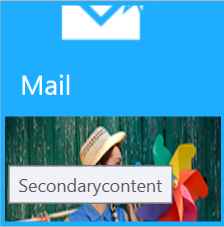
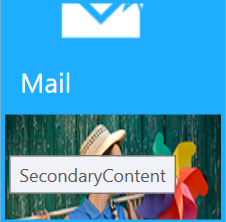
Modified Images on UG Hub Tile

Changed region(s): [[0.0, 0.0, 1.0, 1.0], [0.0938, 0.3243, 0.3125, 0.4324]]

diff --git a/wpf/Hub-Tile/Hub-Tile-Control.md b/wpf/Hub-Tile/Hub-Tile-Control.md
@@ -423,7 +423,7 @@ Several tiles can be grouped using the [GroupName](https://help.syncfusion.com/c
 {% endhighlight %}
 {% endtabs %}
 
-![wpf hubtile grouping](Getting-Started_images/wpf-hubtile-grouping.jpg)
+![wpf hubtile grouping](Getting-Started_images/wpf-hubtile-groupingtiles.jpg)
 
 ### Grouping via DataBinding
 
@@ -774,7 +774,7 @@ A single tile or a group of tiles can be unfreezed by using [UnFreeze](https://h
 {% endtabs %}
 
 ![wpf hubtile unfreeze a single tile](Getting-Started_images/wpf-hubtile-slide-transition.png)
-![wpf hubtile unfreeze a group of tiles](Getting-Started_images/wpf-hubtile-grouping.jpg)
+![wpf hubtile unfreeze a group of tiles](Getting-Started_images/wpf-hubtile-groupingtiles.jpg)
  
 ## Notifications
 
@@ -1020,7 +1020,7 @@ The secondary content of the tile can be customized by setting the [SecondaryCon
         <shared:SlideTransition/>
 	</syncfusion:SfHubTile.HubTileTransitions>
    	<syncfusion:SfHubTile.SecondaryContent>
-	    <Image Source="/Assets/HubTile.png" Stretch="Fill" ToolTip="Secondarycontent" Margin="-1"/>
+	    <Image Source="/Assets/HubTile.png" Stretch="Fill" ToolTip="SecondaryContent" Margin="-1"/>
 	</syncfusion:SfHubTile.SecondaryContent>
 </syncfusion:SfHubTile>
 {% endhighlight %}
